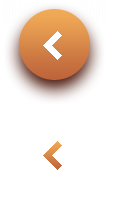
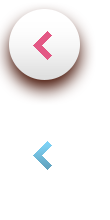
Atualização do layout

Changed region(s): [[0.0, 0.0273, 0.7909, 0.4364], [0.3, 0.6273, 0.5182, 0.7909]]

diff --git a/css/style.css b/css/style.css
@@ -3,21 +3,18 @@
 @import 'jquery.fancybox.css';
 /*------ template stylization ------*/
 body {
-  background: #e85b8b;
+  background: #bb5e36;
   font: 12px Arial, "Helvetica Neue", Helvetica, sans-serif;
   line-height: 20px;
-  color: #831F5F;
+  color: #b58f70;
   min-width: 1000px;
   min-height: 1100px;
-}
-a:hover{
-  text-decoration: none !important;
 }
 #webSiteLoader {
   position: fixed;
   width: 100%;
   height: 100%;
-  background: #e85b8b url(../img/web_site_loader.gif) center no-repeat;
+  background: #8FC1BE url(../img/web_site_loader.gif) center no-repeat;
   z-index: 1023;
   top: 0;
 }
@@ -45,7 +42,7 @@ h2 {
   font: 69.96000000000001px 'BenchNine';
   line-height: 1.2em;
   text-transform: lowercase;
-  color: #831F5F;
+  color: #9b3002;
   letter-spacing: -3px;
   padding-bottom: 6px;
 }
@@ -61,7 +58,7 @@ time,
   font: 700 20.04px 'BenchNine';
   line-height: 20px;
   text-transform: uppercase;
-  color: #831F5F;
+  color: #ed9d44;
   margin: 0 0 14px;
 }
 h3 a,
@@ -78,7 +75,7 @@ h3 a:hover,
 time a:hover,
 .fontStyle1 a:hover {
   text-decoration: none;
-  color: #831F5F;
+  color: #9b3002;
 }
 address {
   font-style: normal;
@@ -132,7 +129,7 @@ header h1 a {
   width: 100%;
   margin: 14px auto;
   display: none;
-  color: #831F5F;
+  color: #b58f70;
 }
 header .navbar {
   margin-bottom: 0;
@@ -201,7 +198,7 @@ header .navbar-inner {
 }
 .sf-menu > li > a:hover > span,
 .sf-menu > li > a.activeLink > span {
-  color: #831F5F;
+  color: #E35885;
   text-decoration: none;
 }
 .sf-menu ul {
@@ -214,7 +211,7 @@ header .navbar-inner {
   left: -60px !important;
   display: none;
   overflow: visible;
-  background: #831F5F;
+  background: #8FC1BE;
 }
 .sf-menu ul li {
 
@@ -240,7 +237,7 @@ header .navbar-inner {
   transition: all 0.5s ease-out;
 }
 .sf-menu ul li a.hoverItem {
-  color: #D83B70 !important;
+  color: #f3b978 !important;
 }
 .sf-menu ul ul {
   left: -139px !important;
@@ -271,8 +268,8 @@ header .navbar-inner {
   box-shadow: 0 0 0;
   padding: 5px 10px;
   line-height: 21px;
-  color: #831F5F;
-  background: #fba0bf;
+  color: #b58f70;
+  background: #fbeed5;
 }
 #wrapper input:focus,
 #wrapper textarea:focus {
@@ -394,7 +391,7 @@ header .navbar-inner {
   font: 700 20.04px 'BenchNine';
   line-height: 20px;
   text-transform: uppercase;
-  color: #831F5F;
+  color: #ed9d44;
   background: none;
   -webkit-border-radius: 0;
   -moz-border-radius: 0;
@@ -412,7 +409,7 @@ header .navbar-inner {
 }
 .btn.btn-link:hover,
 .btn.btn-link:active {
-  color: #831F5F;
+  color: #9b3002;
   background: none;
   -webkit-box-shadow: none;
   -moz-box-shadow: none;
@@ -431,7 +428,7 @@ header .navbar-inner {
   line-height: 20px;
   text-transform: uppercase;
   color: #ffffff;
-  background: #831F5F;
+  background: #9b3002;
   -webkit-border-radius: 0;
   -moz-border-radius: 0;
   border-radius: 0;
@@ -448,8 +445,8 @@ header .navbar-inner {
 }
 .btn:hover,
 .btn:active {
-  color: #831F5F;
-  background: #fba0bf;
+  color: #9b3002;
+  background: #fbeed5;
   -webkit-box-shadow: none;
   -moz-box-shadow: none;
   box-shadow: none;
@@ -567,7 +564,7 @@ hr {
   font: 700 20.04px 'BenchNine';
   line-height: 20px;
   text-transform: uppercase;
-  color: #831F5F;
+  color: #ed9d44;
   -webkit-transition: color 0.5s ease;
   -moz-transition: color 0.5s ease;
   -o-transition: color 0.5s ease;
@@ -576,17 +573,19 @@ hr {
 .paginationHolder .pagination li a:hover,
 .paginationHolder .pagination li.active > a {
   text-decoration: none;
-  color: #831F5F;
+  color: #9b3002;
 }
 .match {
   display: block;
-  color: #D83B70;
+  color: #eea450;
 }
 .search_list .search {
   width: auto;
-  color: #831F5F;
+  color: #9b3002;
 }
-
+.search_title a {
+  text-decoration: underline;
+}
 .search_title:hover {
   text-decoration: none;
 }
@@ -600,7 +599,7 @@ iframe {
   height: 284px;
   position: relative;
   border: none;
-  background: url(../img/web_site_loader.gif) center no-repeat #e85b8b !important;
+  background: url(../img/web_site_loader.gif) center no-repeat #bb5e36 !important;
 }
 /*scroll*/
 .outside {
@@ -623,7 +622,7 @@ iframe {
   right: 1px;
   top: 2px;
   padding: 0;
-  background: #fba0bf;
+  background: #fbeed5;
 }
 .outside ._shuttle {
   cursor: pointer !important;
@@ -686,7 +685,7 @@ iframe {
   z-index: 10;
   text-align: center;
   width: 250px;
-  background: #fba0bf;
+  background: #fbeed5;
   border: none;
 }
 #form1 textarea {
@@ -712,7 +711,7 @@ iframe {
   text-align: right;
   display: none;
   font-size: 10px;
-  color: #D83B70;
+  color: #eea450;
   width: 200px;
   top: 2px;
   right: 2px;
@@ -759,7 +758,7 @@ iframe {
   z-index: 10;
   text-align: center;
   width: 352px;
-  background: #fba0bf;
+  background: #fbeed5;
   border: none;
 }
 #form2 textarea {
@@ -788,7 +787,7 @@ iframe {
   text-align: right;
   display: none;
   font-size: 10px;
-  color: #D83B70;
+  color: #eea450;
   width: 200px;
   top: 2px;
   right: 6px;
@@ -893,6 +892,9 @@ footer p a {
 }
 .block {
   display: block;
+}
+.underline {
+  text-decoration: underline;
 }
 .underline:hover {
   text-decoration: none;
